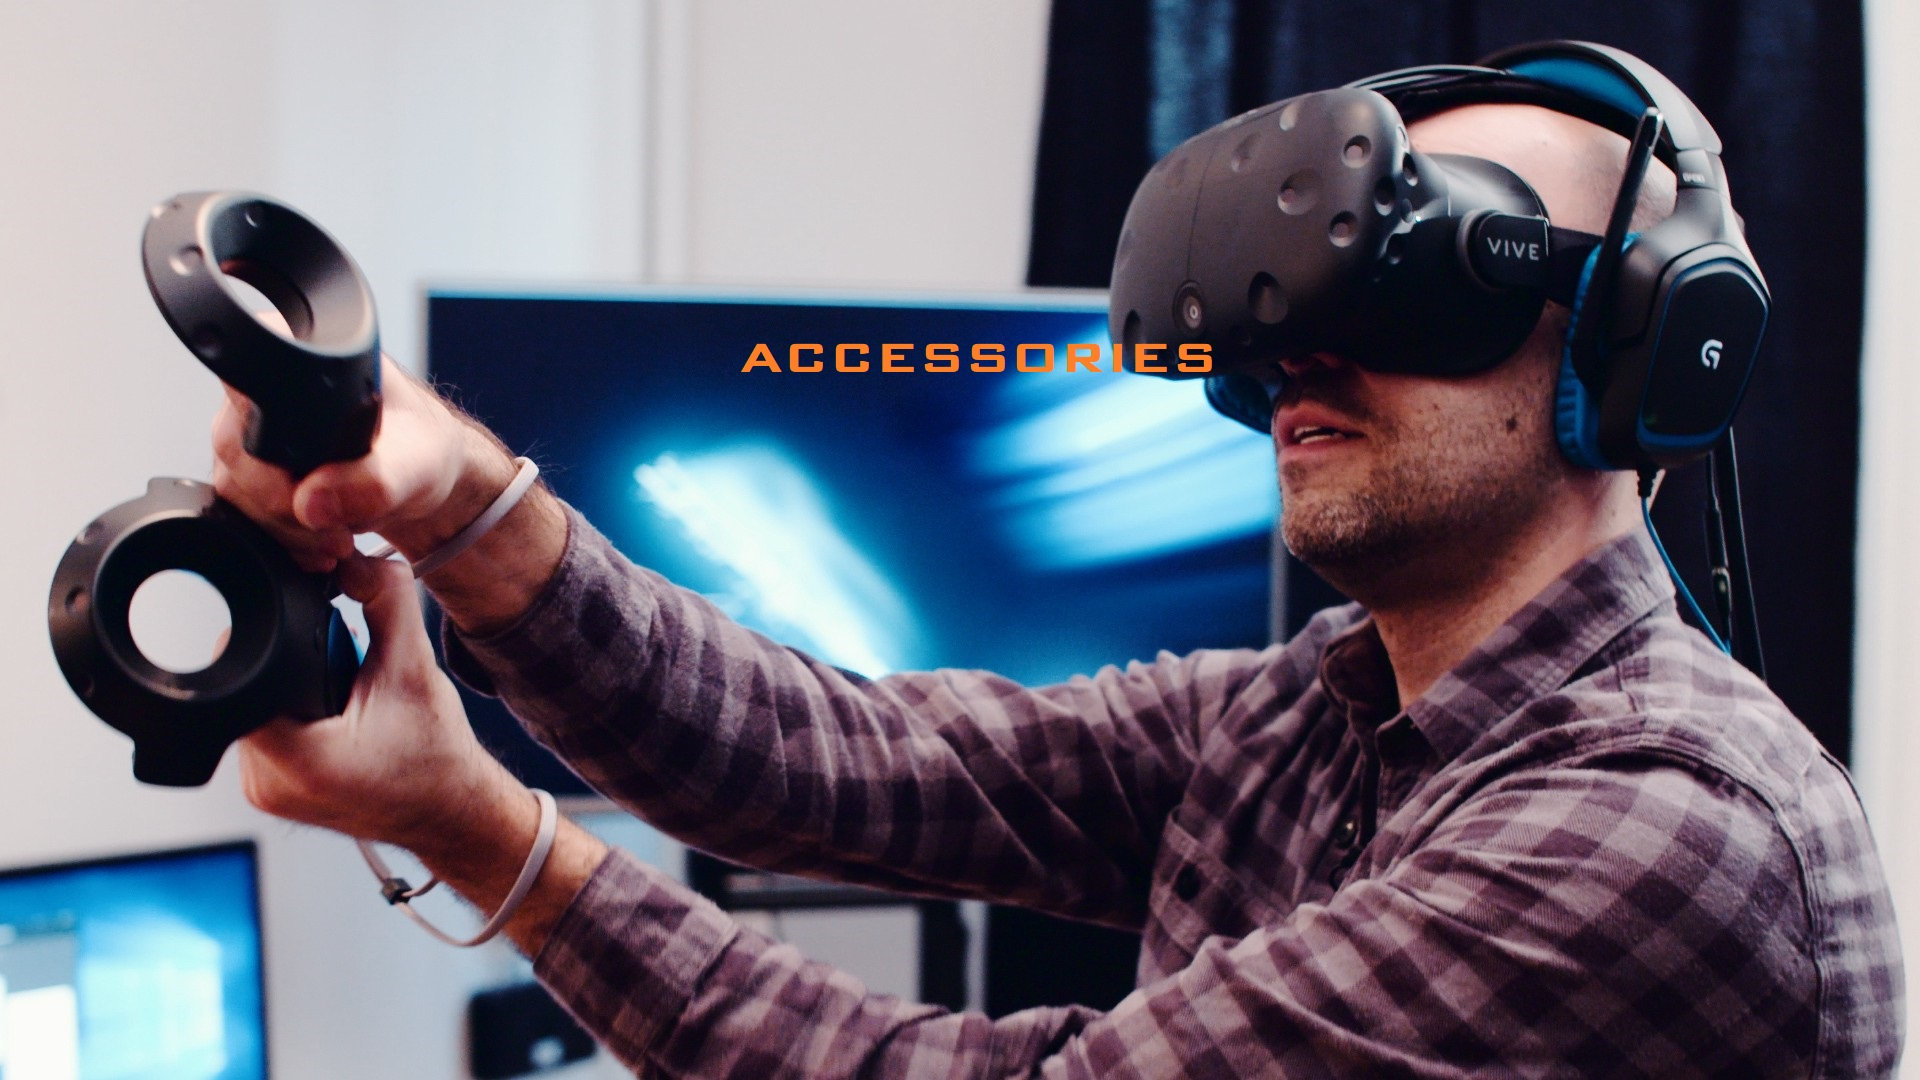
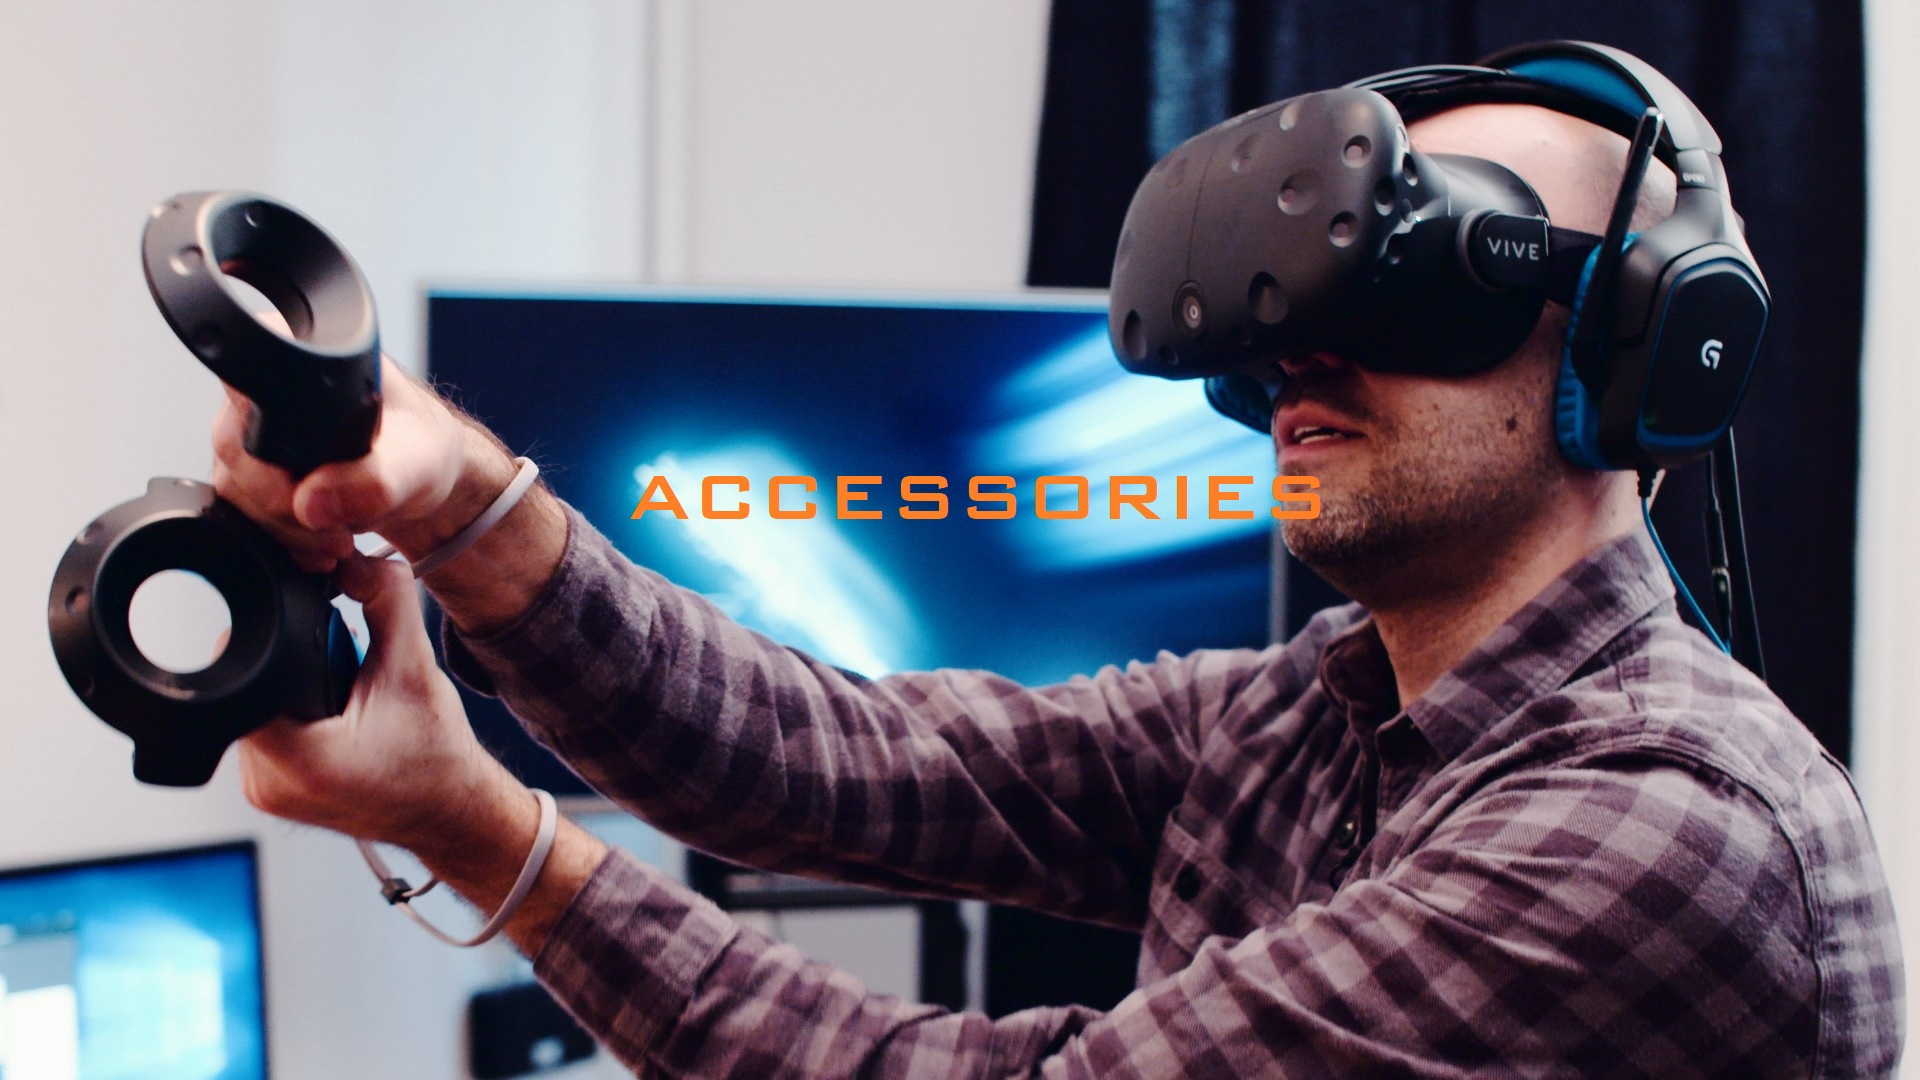
added background to all pages fixed type, so dont have to click on header twice changed background images

Changed region(s): [[0.3125, 0.4278, 0.6875, 0.4889], [0.375, 0.3056, 0.6562, 0.3667]]

diff --git a/client/components/app.jsx b/client/components/app.jsx
@@ -170,7 +170,7 @@ export default class App extends React.Component {
       );
     } else if (this.state.view.name === 'details') {
       return (
-        <div>
+        <div style={{ backgroundColor: '#CCCCCC' }}>
           <Header cart={this.state.cart} setView={this.setView} totalitems={this.calculateItemCount()}/>
           <ProductDetails view={this.state.view} setView={this.setView} addtocart={this.addToCart} />
           <Footer />
@@ -179,7 +179,7 @@ export default class App extends React.Component {
     } else if (this.state.view.name === 'cart') {
       return (
         <AppContext.Provider value={appContext} >
-          <div>
+          <div style={{ backgroundColor: '#CCCCCC' }}>
             <Header cart={this.state.cart} setView={this.setView} totalitems={this.calculateItemCount()}/>
 
             <CartSummary view={this.state.view} setView={this.setView} cart={this.state.cart} total={this.calculateTotal()} />
@@ -192,7 +192,7 @@ export default class App extends React.Component {
     } else if (this.state.view.name === 'checkoutform') {
       return (
         <AppContext.Provider value={appContext} >
-          <div>
+          <div style={{ backgroundColor: '#CCCCCC' }}>
             <Header cart={this.state.cart} setView={this.setView} totalitems={this.calculateItemCount()} />
             <CheckoutForm view={this.state.view} setView={this.setView} placeorder={this.placeOrder} cart={this.state.cart} total={this.calculateTotal()} />
             <Footer />
@@ -201,7 +201,8 @@ export default class App extends React.Component {
       );
     } else if (this.state.view.name === 'systems') {
       return (
-        <div>
+        // style={{ backgroundColor: 'rgba(0,56,130,1)' }}
+        <div style={{ backgroundColor: '#CCCCCC' }}>
           <Header cart={this.state.cart} setView={this.setView} totalitems={this.calculateItemCount()} />
           <img style={{ width: '100%', marginBottom: '10px' }} src={'../img/systemsbg3.png'}></img>
           <div style={{ width: '90vw', paddingLeft: '10vw' }}>
@@ -212,7 +213,7 @@ export default class App extends React.Component {
       );
     } else if (this.state.view.name === 'accessories') {
       return (
-        <div>
+        <div style={{ backgroundColor: '#CCCCCC' }}>
           <Header cart={this.state.cart} setView={this.setView} totalitems={this.calculateItemCount()} />
           <img style={{ width: '100%', marginBottom: '10px' }} src={'../img/accessoriesbg2.jpg'}></img>
           <div style={{ width: '90vw', paddingLeft: '10vw' }}>
@@ -223,9 +224,9 @@ export default class App extends React.Component {
       );
     } else if (this.state.view.name === 'games') {
       return (
-        <div>
+        <div style={{ backgroundColor: '#CCCCCC' }}>
           <Header cart={this.state.cart} setView={this.setView} totalitems={this.calculateItemCount()} />
-          <img style={{ width: '100%', marginBottom: '10px' }} src={'../img/gamesbg2.png'}></img>
+          <img style={{ width: '100%', marginBottom: '10px' }} src={'../img/gamesbg4.jpg'}></img>
           <div style={{ width: '90vw', paddingLeft: '10vw' }}>
             <ProductList view={this.state.view} type={this.state.view.name} setView={this.setView} />
           </div>

diff --git a/client/components/header.jsx b/client/components/header.jsx
@@ -8,10 +8,10 @@ export default class Header extends React.Component {
           <div className="d-inline-flex home" style={{ width: '200px' }} onClick={() => {
             this.props.setView('catalog', {});
           }}>
-            <div className="ml-5 mt-2" style={{ backgroundImage: 'url(https://www.eurotopics.net/cache/images/2/148482-medium_logo-teaser300.png?E1B87)', width: '50px', height: '50px', backgroundSize: '50px 50px' }}></div>
+            <div className="ml-5 mt-2" style={{ backgroundImage: 'url(../img/logo.png)', width: '50px', height: '50px', backgroundSize: '50px 50px' }}></div>
             <h1 className="mt-3" style={{ fontFamily: 'Impact, Charcoal, sans-serif' }}>ile</h1>
           </div>
-          <div className="d-flex justify-content-between mt-5 ml-1" >
+          <div className="d-flex justify-content-between mt-5" >
             <h3 style={{ marginRight: '10px' }} className="titleani" onClick={() => {
               this.props.setView('systems', { type: 'systems' });
             }}>Systems</h3>

diff --git a/server/public/styles.css b/server/public/styles.css
@@ -12,7 +12,7 @@
   animation: fade 1s linear forwards;
   color:darkblue;
   font-weight: bold;
-  transform: scale(1.1);
+  transform: scale(1.05);
   cursor: pointer;
 }
 
@@ -29,7 +29,7 @@
 
 .home:hover{
   transition-duration: 1s;
-  transform: scale(1.5);
+  transform: scale(1.1);
   cursor: pointer;
 }
 
@@ -46,12 +46,21 @@
   color: #000067;
   cursor: pointer;
 }
-
+.titleani{
+  margin-bottom: 10%;
+}
 .titleani:hover{
   transition-duration: 1s;
   transition-timing-function: ease;
   cursor: pointer;
   color: white;
+}
+
+@media only screen and (max-width: 600px) {
+  .titleani {
+    font-size: 1rem;
+    margin-bottom: 30px;
+  }
 }
 
 .carouseldirection:hover{

diff --git a/client/components/product-details.jsx b/client/components/product-details.jsx
@@ -21,7 +21,7 @@ export default class ProductDetails extends React.Component {
       return <div>Loading...</div>;
     }
     return (
-      <div className="container mt-5 p-2 ">
+      <div className="container mt-5 p-2 rounded" style={{ backgroundColor: '#FFFFFF' }}>
         <div className="d-flex">
           <div className="mr-3 mb-2" style={{ width: '300px' }}>
             <DetailsCarousel images={this.state.product[0].images}/>

diff --git a/client/components/product-list.jsx b/client/components/product-list.jsx
@@ -20,8 +20,8 @@ export default class ProductList extends React.Component {
   }
   getProducts(nextProps) {
     var type = '';
-    if (this.props.type === 'catalog') {
-      type = 'catalog';
+    if (this.props.type) {
+      type = this.props.type;
     }
     if (nextProps) {
       type = nextProps.view.params.type;
